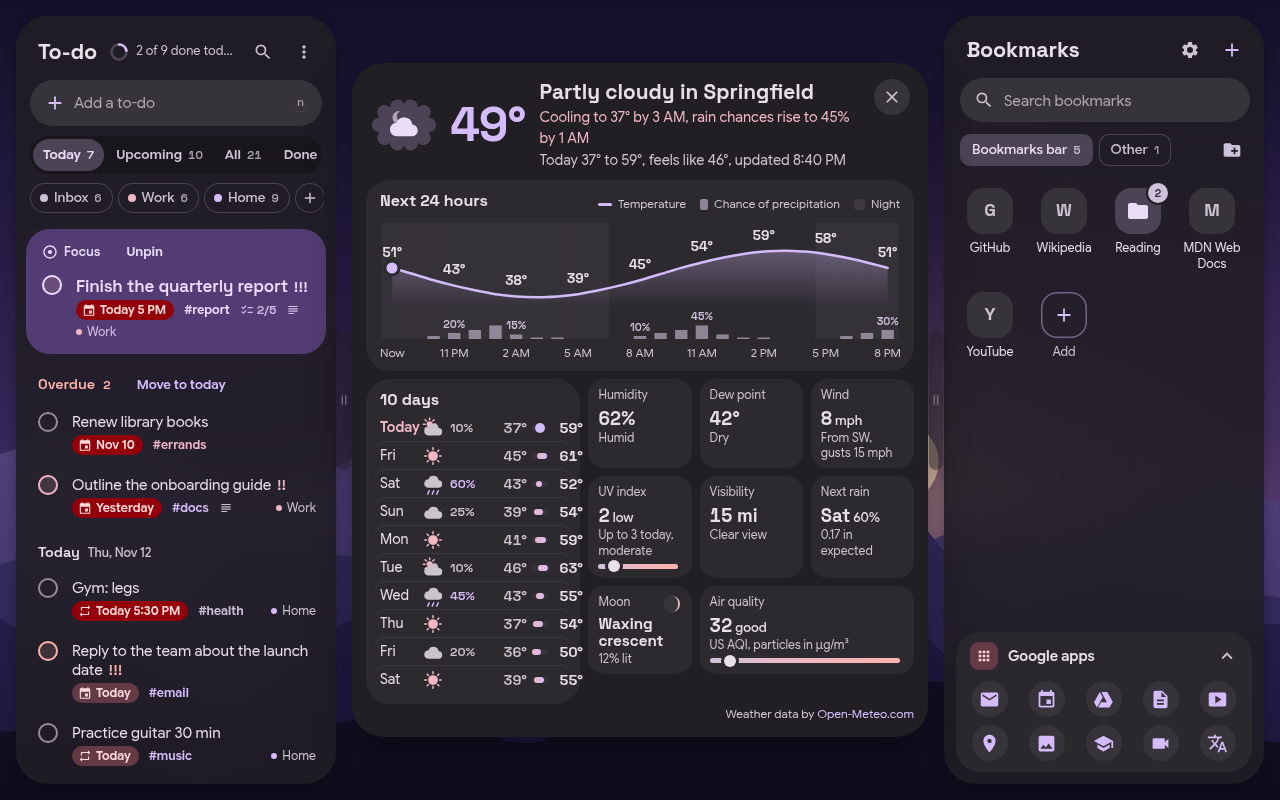
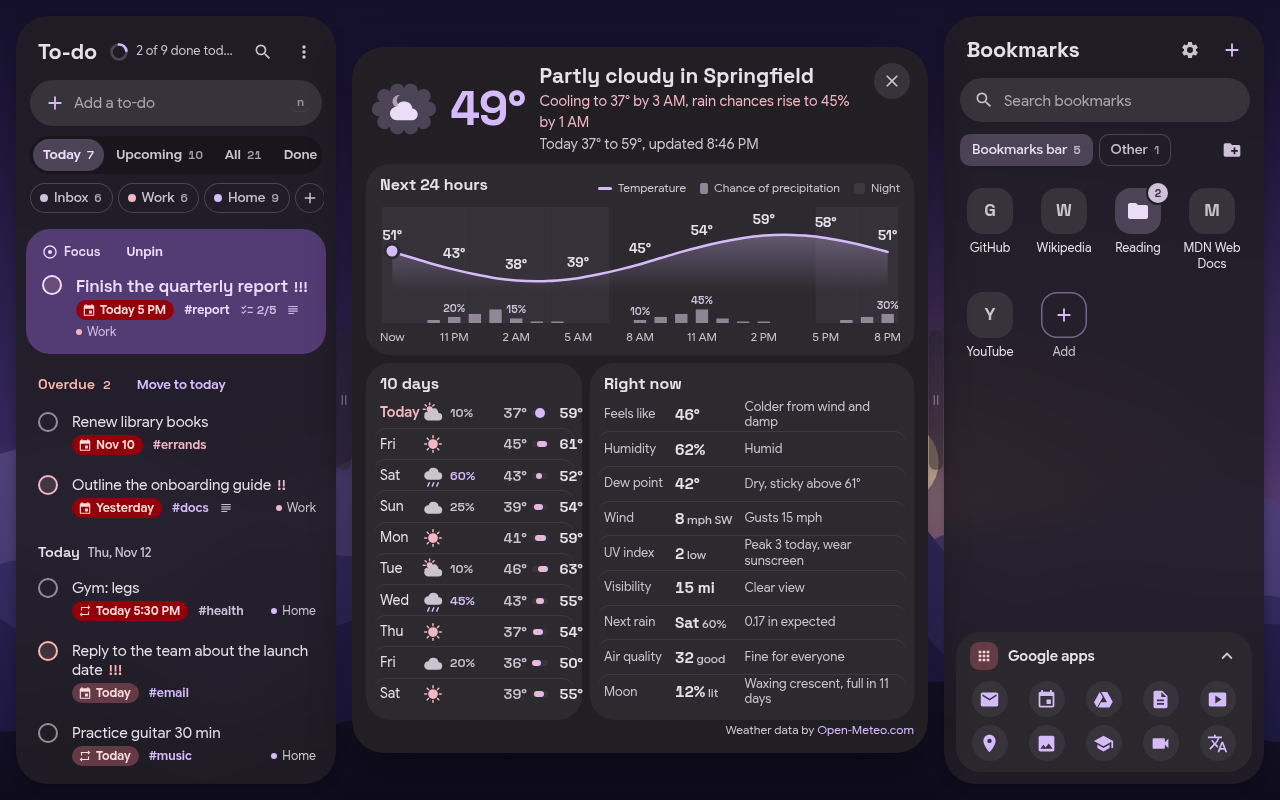
Weather details: readings as one compact list
The tile grid (compass, meters, sun arc, particle box) is replaced by a "Right now" list beside the 10 days:
name, value and a short note per row, with the full explanation as the row's tooltip. The moon shows how much
is lit, the phase goes in its note. Compact layouts let a note wrap to two lines.

diff --git a/extension/scripts/weather-card.js b/extension/scripts/weather-card.js
@@ -619,77 +619,58 @@
     }
 
     // Tile titles are words only (owner 2026-11-12: no extra symbols on the tiles).
-    // `why` is a plain-words line on what the reading means (owner 2026-11-12: "I kind of want explanations"). It shows
-    // under the reading in the wide layout and as the tile's tooltip everywhere.
-    const tile = (cls, label, value, sub, extra = "", why = "") => `
-        <div class="dlw-tile ${cls}"${why ? ` title="${esc(why)}"` : ""}><div class="dlw-tl">${label}</div>
-            <div class="dlw-tv">${value}</div>${sub ? `<div class="dlw-ts">${sub}</div>` : ""}${extra}${why ? `<p class="dlw-tx">${esc(why)}</p>` : ""}</div>`;
+    // Right now, as one compact list (owner 2026-11-12: "tighten it down to like a list with values"): each row is the
+    // reading's name, its value and a short note in plain words; the full explanation is the row's tooltip.
     const dewWord = (c) => { const f = c * 9 / 5 + 32; return f < 50 ? "Dry" : f < 60 ? "Comfortable" : f < 65 ? "Sticky" : "Muggy"; };
-    const meter = (frac, label) => `<div class="dlw-meter" aria-hidden="true" title="${esc(label)}"><b style="left:${clamp(frac, 0, 1) * 100}%"></b></div>`;
+    const row = (cls, label, value, note, why) => `<li class="dlw-row ${cls}" title="${esc(why)}">` +
+        `<span class="dlw-rl">${label}</span><span class="dlw-rv">${value}</span><span class="dlw-rn">${note}</span></li>`;
 
-    function tiles(w) {
+    function nowRows(w) {
         const t = todayAt(w), today = w.days[t] || {}, tomorrow = w.days[t + 1];
         const feelsGap = tval(w.feels) - tval(w.temp);
         const vis = w.visibility;
         const m = moon(Date.now());
         const out = [];
-        // Feels like only when it differs (the band shows it then too); cloud cover is gone (the condition says it).
-        // In the narrow layout the header line says feels like instead (dlw-t-feels is hidden there).
-        // Wide grid, three columns, no holes: [feels, humidity, dew] [wind, UV, visibility] [wind, rain, moon] [air].
-        // A missing feels-like widens the dew point, a missing visibility widens the moon.
-        if (Math.abs(feelsGap) >= 1.5) out.push(tile("dlw-t-feels", "Feels like", deg(w.feels),
-            feelsGap < 0 ? `Cooler than the ${deg(w.temp)} air` : `Warmer than the ${deg(w.temp)} air`, "",
-            feelsGap < 0 ? "Wind and damp air pull heat from your skin."
-                : "Humid, still air keeps your body from cooling off."));
-        out.push(tile("dlw-t-humid", "Humidity", `${Math.round(w.humidity)}%`,
-            w.humidity < 30 ? "Dry air" : w.humidity <= 60 ? "Comfortable" : w.humidity <= 80 ? "Humid" : "Very humid", "",
+        if (Math.abs(feelsGap) >= 1.5) out.push(row("dlw-t-feels", "Feels like", deg(w.feels),
+            feelsGap < 0 ? "Colder from wind and damp" : "Warmer from humid, still air",
+            "How the air feels on your skin, counting wind and humidity."));
+        out.push(row("dlw-t-humid", "Humidity", `${Math.round(w.humidity)}%`,
+            w.humidity < 30 ? "Dry air" : w.humidity <= 60 ? "Comfortable" : w.humidity <= 80 ? "Humid" : "Very humid",
             "Water in the air, out of the most it can hold at this temperature."));
-        const noFeels = Math.abs(feelsGap) < 1.5;
-        out.push(tile("dlw-t-dew" + (noFeels ? " dlw-w2" : ""), "Dew point", deg(w.dew), dewWord(w.dew), "",
-            `Air cooled to ${deg(w.dew)} would form dew. Below ${deg(10)} feels dry, above ${deg(16)} sticky.`));
-        // Wind with a compass (the arrow points where the wind goes).
-        const ticks = [...Array(36)].map((_, i) => `<line x1="50" y1="${i % 9 ? 7 : 5}" x2="50" y2="${i % 9 ? 10 : 12}" transform="rotate(${i * 10} 50 50)"/>`).join("");
-        out.push(tile("dlw-wind dlw-t-wind", "Wind", `${speedNum(w.wind)}<small> ${speedUnit()}</small>`,
-            `From <span class="dlw-wide">the ${COMPASS[point(w.windDir)]}</span><span class="dlw-narrow">${COMPASS_SHORT[point(w.windDir)]}</span>, gusts ${speed(w.gusts)}`,
-            `<div class="dlw-compass" aria-hidden="true"><svg viewBox="0 0 100 100"><circle cx="50" cy="50" r="44" class="dlw-ring"/>
-                <g class="dlw-ticks">${ticks}</g>
-                <text x="50" y="23">N</text><text x="80" y="54">E</text><text x="50" y="85">S</text><text x="20" y="54">W</text></svg>
-                <span class="dlw-arrow" style="--dir:${(w.windDir + 180) % 360}deg">${I.arrow}</span></div>`,
-            "The arrow points where the wind blows. Gusts are short, stronger bursts."));
-        out.push(tile("dlw-t-uv", "UV index", `${Math.round(w.uv)}<small> ${uvWord(w.uv).toLowerCase()}</small>`,
-            today.uvMax != null ? `Up to ${Math.round(today.uvMax)} today, ${uvWord(today.uvMax).toLowerCase()}` : "",
-            meter(w.uv / 11, "UV scale 0 to 11"), "Strength of the sun's burning rays. At 3 or more, wear sunscreen."));
-        if (vis != null) out.push(tile("dlw-t-vis", "Visibility", distance(vis),
-            vis >= 10000 ? "Clear view" : vis >= 5000 ? "Light haze" : vis >= 1000 ? "Hazy" : "Fog", "",
+        out.push(row("dlw-t-dew", "Dew point", deg(w.dew), `${dewWord(w.dew)}, sticky above ${deg(16)}`,
+            `Dew forms if the air cools to ${deg(w.dew)}. The higher it is, the muggier it feels: below ${deg(10)} feels dry, above ${deg(16)} sticky.`));
+        out.push(row("dlw-t-wind", "Wind", speedNum(w.wind) < 2 ? "Calm"
+            : `${speedNum(w.wind)}<small> ${speedUnit()} ${COMPASS_SHORT[point(w.windDir)]}</small>`, `Gusts ${speed(w.gusts)}`,
+            `From the ${COMPASS[point(w.windDir)]}. Gusts are the short, stronger bursts.`));
+        out.push(row("dlw-t-uv", "UV index", `${Math.round(w.uv)}<small> ${uvWord(w.uv).toLowerCase()}</small>`,
+            today.uvMax != null ? `Peak ${Math.round(today.uvMax)} today${today.uvMax >= 3 ? ", wear sunscreen" : ""}` : "",
+            "Strength of the sun's burning rays. At 3 or more, wear sunscreen."));
+        if (vis != null) out.push(row("dlw-t-vis", "Visibility", distance(vis),
+            vis >= 10000 ? "Clear view" : vis >= 5000 ? "Light haze" : vis >= 1000 ? "Hazy" : "Fog",
             `How far you can see clearly. Under ${distance(1000)} is fog.`));
-        // Rain: today's amount when today is wet, else the next wet day.
+        // Rain: today when today is wet, else the next wet day.
         if ((today.rain || 0) >= 50) {
-            out.push(tile("dlw-t-rain", "Rain today", amount(today.mm || 0),
-                `${Math.round(today.rain)}% chance${tomorrow ? `, ${Math.round(tomorrow.rain)}% tomorrow` : ""}`, "",
+            out.push(row("dlw-t-rain", "Rain today", `${Math.round(today.rain)}%`,
+                `${amount(today.mm || 0)} expected${tomorrow ? `, ${Math.round(tomorrow.rain)}% tomorrow` : ""}`,
                 "Chance of rain today, and how much should fall."));
         } else {
             const j = w.days.findIndex((d, i) => i > t && d.rain >= 50);
             const d = w.days[j];
-            out.push(tile("dlw-t-rain", "Next rain", d ? `${dayName(d.date, 2)}<small> ${d.rain}%</small>` : "None",
-                d ? `${j - t === 1 ? "Tomorrow, " : ""}${amount(d.mm)} expected` : `Dry for ${w.days.length - t} days`, "",
-                "The next day with a 50% or higher chance of rain."));
+            out.push(row("dlw-t-rain", "Next rain", d ? `${dayName(d.date, 2)}<small> ${d.rain}%</small>` : "None",
+                d ? `${j - t === 1 ? "Tomorrow, " : ""}${amount(d.mm)} expected` : `Dry for ${w.days.length - t} days`,
+                "The next day with a 50% or higher chance of rain, and how much should fall."));
         }
-        const toFull = Math.round(((0.5 - m.age + 1) % 1) * 29.53);
-        out.push(tile("dlw-moon" + (vis == null ? " dlw-w2" : ""), "Moon", m.name, `${Math.round(m.lit * 100)}% lit`,
-            `<svg class="dlw-moonpic" viewBox="0 0 40 40" aria-hidden="true"><circle cx="20" cy="20" r="16" class="dlw-moon-dark"/><path d="${moonPath(m.age)}" class="dlw-moon-lit"/></svg>`,
-            m.name === "Full moon" ? "The whole face is lit tonight." : `Full moon in ${toFull} day${toFull === 1 ? "" : "s"}.`));
         if (w.air) {
             const a = w.air, n = (v) => v == null ? "?" : Math.round(v);
-            out.push(tile("dlw-aqi dlw-t-air" + (a.aqi > 100 ? " dlw-bad" : ""), "Air quality", `${Math.round(a.aqi)}<small> ${aqiWord(a.aqi).toLowerCase()}</small>`,
-                "US AQI, particles in µg/m³",
-                meter(a.aqi / 300, "AQI scale 0 to 300") + `<dl class="dlw-pm"><div><dt>PM2.5</dt><dd>${n(a.pm25)}</dd></div>
-                    <div><dt>PM10</dt><dd>${n(a.pm10)}</dd></div><div><dt>Ozone</dt><dd>${n(a.ozone)}</dd></div></dl>`,
-                (a.aqi <= 50 ? "Clean air, fine for everyone outside."
-                    : a.aqi <= 100 ? "Fine for most people. Very sensitive people may want to take it easy outside."
-                    : a.aqi <= 150 ? "People with asthma, kids and older adults should cut long outdoor exercise."
-                    : "Unhealthy: everyone should cut long or hard outdoor exercise.")
-                + " PM2.5 and PM10 are fine dust, ozone is smog."));
+            out.push(row("dlw-t-air" + (a.aqi > 100 ? " dlw-bad" : ""), "Air quality",
+                `${Math.round(a.aqi)}<small> ${aqiWord(a.aqi).toLowerCase()}</small>`,
+                a.aqi <= 50 ? "Fine for everyone" : a.aqi <= 100 ? "Fine for most people"
+                    : a.aqi <= 150 ? "Sensitive people take it easy" : "Cut long outdoor exercise",
+                `US air quality index, 0 to 500. PM2.5 ${n(a.pm25)}, PM10 ${n(a.pm10)} (fine dust, µg/m³), ozone ${n(a.ozone)} (smog).`));
         }
+        const toFull = Math.round(((0.5 - m.age + 1) % 1) * 29.53);
+        out.push(row("dlw-moon", "Moon", `${Math.round(m.lit * 100)}%<small> lit</small>`, m.name === "Full moon" ? "Full moon tonight"
+            : `${m.name}, full in ${toFull} day${toFull === 1 ? "" : "s"}`, "How much of the moon is lit tonight, and its phase."));
         return out.join("");
     }
 
@@ -700,7 +681,6 @@
         const keep = body ? body.scrollTop : 0;
         const text = window.weatherText(w.code, w.isDay);
         const stale = ageMin(w) > STALE;
-        const feelsHead = Math.abs(tval(w.feels) - tval(w.temp)) >= 1.5;
         detail.innerHTML = `
             <header class="dlw-d-head">
                 ${badge(w, "dlw-small")}
@@ -708,7 +688,7 @@
                 <div class="dlw-words">
                     <h2 class="dlw-cond" id="dlw-d-title">${esc(text)} in ${esc(w.place)}</h2>
                     <div class="dlw-sub dlw-sum">${esc(daySentence(w))}</div>
-                    <div class="dlw-sub">Today ${deg(todayRange(w).min)} to ${deg(todayRange(w).max)}, ${feelsHead ? `<span class="dlw-narrow">feels like ${deg(w.feels)}, </span>` : ""}<span class="${stale ? "dlw-old" : ""}">updated ${stale ? ago(w) : updatedAt(w)}</span></div>
+                    <div class="dlw-sub">Today ${deg(todayRange(w).min)} to ${deg(todayRange(w).max)}, <span class="${stale ? "dlw-old" : ""}">updated ${stale ? ago(w) : updatedAt(w)}</span></div>
                 </div>
                 <button type="button" class="icon-btn dlw-close" title="Close (Esc)">${I.close}<span class="dlw-sr">Close weather details</span></button>
             </header>
@@ -722,7 +702,10 @@
                     <div class="dlw-d-h"><h3 id="dlw-h-10">10 days</h3></div>
                     <ol class="dlw-ten">${tenDays(w)}</ol>
                 </section>
-                <section class="dlw-d-sec dlw-d-grid" aria-label="Current conditions">${tiles(w)}</section>
+                <section class="dlw-d-sec dlw-d-grid" aria-labelledby="dlw-h-now">
+                    <div class="dlw-d-h"><h3 id="dlw-h-now">Right now</h3></div>
+                    <ul class="dlw-rows">${nowRows(w)}</ul>
+                </section>
                 <p class="dlw-credit">Weather data by <a href="https://open-meteo.com/" target="_blank" rel="noopener">Open-Meteo.com</a></p>
             </div>`;
         const nb = detail.querySelector(".dlw-d-body");

diff --git a/extension/styles/weather.css b/extension/styles/weather.css
@@ -369,7 +369,7 @@
 .dlw-old { color: var(--dl-error, #ffb4ab); }
 .dlw-close { align-self: flex-start; flex: none; background: var(--dl-surface_container_highest, #3d3230); }
 .dlw-d-body { flex: 1; min-height: 0; overflow: auto; scrollbar-width: thin; scrollbar-color: var(--line) transparent;
-    padding: 2px 20px 20px; display: grid; grid-template-columns: minmax(0, 4fr) minmax(0, 8fr);
+    padding: 2px 20px 20px; display: grid; grid-template-columns: minmax(0, 5fr) minmax(0, 7fr);
     grid-template-areas: "chart chart" "days grid"; gap: 14px; outline: 0;
     /* Tight: every row is as tall as its content, and the 10 days stretch to the tiles' height beside them. */
     align-items: stretch; }
@@ -434,79 +434,39 @@
 .dlw-ten .dlw-wk i { border-radius: 3px; }
 .dlw-ten .dlw-wk b { width: 10px; height: 10px; box-shadow: 0 0 0 2px var(--dl-surface_container_high, #322825); }
 
-/* Metrics grid: three columns; wind is tall (compass), sun and air quality are wide. */
-.dlw-d-grid { grid-area: grid; display: grid; grid-template-columns: repeat(3, minmax(0, 1fr)); grid-auto-flow: row dense;
-    gap: 10px; padding: 0; background: none; }
-/* No holes in the three columns: a tile whose neighbor is missing (feels like, visibility) takes two cells, air quality
-   takes the whole last row. */
-.dlw-w2 { grid-column: span 2; }
-.dlw-tile { position: relative; display: flex; flex-direction: column; gap: 2px; min-width: 0; min-height: 94px;
-    padding: 12px 14px; border-radius: 20px; background: var(--dl-surface_container_high, #322825); }
-/* The tile picked in the band. */
-.dlw-tile.dlw-on { box-shadow: inset 0 0 0 2px var(--dl-primary, #ffb4a4); }
-.dlw-tl { display: flex; align-items: center; gap: 6px; font-size: 0.8rem; color: var(--dl-on_surface_variant, #d8c2bd); }
-/* Title, value and note sit together at the top; the explanation goes to the bottom of a tile taller than its words.
-   The wind tile centers its compass in the room between. */
-.dlw-tile > .dlw-tl { padding-bottom: 4px; }
-.dlw-tv { font: 700 1.6rem/1.2 var(--f-display); font-variant-numeric: tabular-nums; white-space: nowrap;
-    overflow: hidden; text-overflow: ellipsis; }
-.dlw-ts { font-size: 0.8rem; line-height: 1.3; color: var(--dl-on_surface_variant, #d8c2bd); }
-.dlw-meter { position: relative; height: 6px; margin: 8px 6px 2px 0; border-radius: 3px;
-    background: linear-gradient(90deg, var(--dl-secondary, #e7bdb3), var(--dl-tertiary, #dcc48c), var(--dl-error, #ffb4ab)); }
-.dlw-meter b { position: absolute; top: 50%; width: 12px; height: 12px; border-radius: 50%; transform: translate(-50%, -50%);
-    background: var(--dl-on_surface, #f1dfdb); box-shadow: 0 0 0 3px var(--dl-surface_container_high, #322825); }
-.dlw-wind { grid-row: span 2; }
-.dlw-compass { position: relative; width: 116px; height: 116px; margin: auto; }
-.dlw-compass svg { width: 100%; height: 100%; display: block; }
-.dlw-ring { fill: var(--dl-surface_container_highest, #3d3230); stroke: var(--dl-outline_variant, #534340); stroke-width: 1; }
-.dlw-ticks line { stroke: var(--dl-outline, #a08c88); stroke-width: 1.2; stroke-linecap: round; }
-.dlw-compass text { fill: var(--dl-on_surface_variant, #d8c2bd); font: 700 11px var(--f-display); text-anchor: middle; }
-.dlw-compass .dlw-arrow { position: absolute; inset: 0; }
-.dlw-compass .dlw-arrow svg { width: 40px; height: 40px; fill: var(--dl-primary, #ffb4a4); }
-.dlw-aqi { grid-column: 1 / -1; }
-.dlw-aqi .dlw-ts { padding-right: 140px; white-space: normal; }
-.dlw-narrow { display: none; }
-/* What the reading means, in plain words, under it (wide layout; a tooltip in the narrow one). */
-.dlw-tx { margin: auto 0 0; padding-top: 6px; font-size: 0.78rem; line-height: 1.35; text-wrap: pretty;
-    color: color-mix(in srgb, var(--dl-on_surface_variant, #d8c2bd) 78%, transparent); }
-.dlw-aqi .dlw-tx { padding-right: 140px; }
-.dlw-moonpic { position: absolute; right: 14px; top: 14px; width: 40px; height: 40px; }
-.dlw-moon-dark { fill: var(--dl-surface_container_highest, #3d3230); stroke: var(--dl-outline_variant, #534340); }
-.dlw-moon-lit { fill: var(--dl-tertiary, #dcc48c); }
-.dlw-moon .dlw-tv { font-size: 1.15rem; padding-right: 46px; white-space: normal; }
-.dlw-aqi .dlw-meter { margin-right: 140px; }
-.dlw-bad .dlw-tv { color: var(--dl-error, #ffb4ab); }
-.dlw-pm { position: absolute; right: 14px; top: 12px; margin: 0; display: grid; grid-template-columns: auto auto; gap: 2px 10px;
-    font-size: 0.78rem; }
-.dlw-pm div { display: contents; }
-.dlw-pm dt { color: var(--dl-on_surface_variant, #d8c2bd); }
-.dlw-pm dd { margin: 0; font: 600 0.85rem var(--f-display); text-align: right; font-variant-numeric: tabular-nums; }
+/* Right now: one list of readings beside the 10 days (owner 2026-11-12: "a list with values"). Name, value, short note
+   in three aligned columns; the rows share the 10 days' height so the two cards end together. */
+.dlw-d-grid { grid-area: grid; display: flex; flex-direction: column; }
+.dlw-rows { flex: 1; list-style: none; margin: 8px 0 0; padding: 0; display: grid; align-content: stretch;
+    grid-template-columns: max-content max-content minmax(0, 1fr); grid-auto-rows: 1fr; column-gap: 18px; }
+.dlw-row { grid-column: 1 / -1; display: grid; grid-template-columns: subgrid; align-items: center;
+    padding: 6px; margin: 0 -6px; border-radius: 12px; min-width: 0; }
+.dlw-row + .dlw-row { box-shadow: 0 -1px 0 color-mix(in srgb, var(--line) 60%, transparent); }
+.dlw-row.dlw-on, .dlw-row.dlw-on + .dlw-row { box-shadow: none; }
+.dlw-row.dlw-on { background: var(--dl-tertiary_container, #554519); color: var(--dl-on_tertiary_container, #f9e0a6); }
+.dlw-rl { font-size: 0.88rem; color: var(--dl-on_surface_variant, #d8c2bd); white-space: nowrap; }
+.dlw-rv { font: 700 1.05rem/1.2 var(--f-display); font-variant-numeric: tabular-nums; white-space: nowrap; }
+.dlw-rv small { font: 500 0.78em var(--f-body); color: var(--dl-on_surface_variant, #d8c2bd); }
+.dlw-rn { min-width: 0; font-size: 0.85rem; color: var(--dl-on_surface_variant, #d8c2bd); white-space: nowrap; overflow: hidden;
+    text-overflow: ellipsis; }
+.dlw-row.dlw-on .dlw-rl, .dlw-row.dlw-on .dlw-rn, .dlw-row.dlw-on .dlw-rv small { color: inherit; }
+.dlw-bad .dlw-rv { color: var(--dl-error, #ffb4ab); }
 
-/* Short screens (1366x768): a shorter chart, so the tiles start sooner. */
+/* Short screens (1366x768): a shorter chart. */
 @container lemon (max-height: 769px) {
     .dlw-chart { height: 112px; margin-bottom: 22px; }
     .dlw-d-head { padding: 14px 16px 10px 18px; }
 }
-/* Mid-height pages (1920x1080 and the like): a shorter chart and compass, so the tiles with their explanations fit
-   without scrolling. */
+/* Mid-height pages (1920x1080 and the like): a slightly shorter chart and header. */
 @container lemon (max-height: 1150px) {
-    .dlw-chart { height: 110px; margin-bottom: 22px; }
+    .dlw-chart { height: 120px; margin-bottom: 22px; }
     .dlw-d-head { padding: 16px 18px 10px 20px; }
     .dlw-d-body { gap: 10px; }
-    .dlw-compass { width: 92px; height: 92px; }
-    .dlw-compass .dlw-arrow svg { width: 32px; height: 32px; }
-    .dlw-tile { padding: 10px 14px; }
-    .dlw-tv { font-size: 1.55rem; }
 }
-/* Narrow detail (the center column of a 1366 wide screen or a 1100 wide window, up to 940 px): five columns. The chart across the top, the
-   10 days in the first two, the tiles (compact: no compass, sun arc or particle list, their words stay) three to a
-   row beside the days. Rich but fits 1366x768 and 1366x640 with no scroll. */
+/* Narrow detail (the center column of a 1366 wide screen or a 1100 wide window, up to 940 px): the same two cards,
+   smaller type. Fits 1366x768 and 1366x640 with no scroll. */
 @container dlwd (max-width: 940px) {
-    .dlw-d-body { grid-template-columns: repeat(5, minmax(0, 1fr)); grid-template-areas: none; grid-auto-flow: row dense;
-        grid-auto-rows: max-content; gap: 8px; padding: 0 14px 14px; align-items: stretch; }
-    .dlw-d-chartsec { grid-column: 1 / -1; grid-row: 1; }
-    .dlw-d-days { grid-column: 1 / 3; grid-row: 2 / span 4; }
-    .dlw-d-grid { display: contents; }
+    .dlw-d-body { grid-template-columns: minmax(0, 2fr) minmax(0, 3fr); gap: 8px; padding: 0 14px 14px; }
     .dlw-d-head { gap: 14px; }
     .dlw-d-head .dlw-temp { font-size: 48px; }
     .dlw-detail .dlw-shape.dlw-small { width: 64px; height: 64px; flex-basis: 64px; }
@@ -514,31 +474,16 @@
     .dlw-legend { font-size: 0.74rem; }
     .dlw-chart { height: 150px; margin: 10px 2px 22px; }
     .dlw-chart:has(.dlw-on) { margin-top: 26px; }
-    .dlw-ten { margin-top: 4px; }
+    .dlw-ten, .dlw-rows { margin-top: 4px; }
     .dlw-ten li { grid-template-columns: 36px 24px 42px 30px minmax(16px, 1fr) 30px; gap: 5px; padding: 2px 6px; }
     .dlw-ten .wi { width: 24px; height: 24px; }
     .dlw-dn { font-size: 0.88rem; }
     .dlw-lo, .dlw-hi { font-size: 0.9rem; }
-    .dlw-tile { min-height: 0; padding: 7px 10px 8px; border-radius: 16px; gap: 1px; }
-    .dlw-tl { font-size: 0.76rem; }
-    .dlw-tv { font-size: 1.15rem; }
-    .dlw-ts { font-size: 0.76rem; line-height: 1.25; display: -webkit-box; -webkit-box-orient: vertical; -webkit-line-clamp: 2;
-        overflow: hidden; }
-    .dlw-wind { grid-row: auto; }
-    .dlw-w2 { grid-column: auto; }
-    .dlw-aqi { grid-column: span 2; }   /* humidity, dew, wind / UV, visibility, rain / moon, air: three full rows */
-    .dlw-compass, .dlw-pm, .dlw-t-feels, .dlw-wide, .dlw-tx { display: none; }
-    .dlw-narrow { display: inline; }
-    .dlw-aqi .dlw-ts { padding-right: 0; }
-    .dlw-meter { margin: 5px 4px 1px 0; height: 5px; }
-    .dlw-aqi .dlw-meter { margin-right: 4px; }
-    .dlw-moonpic { width: 26px; height: 26px; top: 8px; right: 10px; }
-    .dlw-moon .dlw-tv { font-size: 1rem; padding-right: 28px; white-space: normal; line-height: 1.15; }
-    /* Narrow tiles: values and notes wrap instead of cutting ("30.01 inHg", "Waxing crescent", the air note). */
-    .dlw-tv { white-space: normal; text-overflow: clip; line-height: 1.15; }
-    .dlw-moon .dlw-tv { padding-right: 0; font-size: 0.95rem; }
-    .dlw-moonpic { width: 20px; height: 20px; top: 8px; }
-    .dlw-aqi .dlw-ts { -webkit-line-clamp: 3; }
+    .dlw-rows { column-gap: 12px; }
+    .dlw-row { padding: 2px 6px; }
+    .dlw-rl, .dlw-rn { font-size: 0.8rem; }
+    .dlw-rn { white-space: normal; line-height: 1.2; display: -webkit-box; -webkit-box-orient: vertical; -webkit-line-clamp: 2; }
+    .dlw-rv { font-size: 0.95rem; }
 }
 /* 1366x768: the compact layout's chart a little shorter, so the 10 days and the tiles fit without scrolling. */
 @container lemon (max-height: 769px) {
@@ -552,10 +497,9 @@
     .dlw-detail .dlw-shape.dlw-small { width: 54px; height: 54px; flex-basis: 54px; }
     .dlw-d-head .dlw-cond { font-size: 1.15rem; -webkit-line-clamp: 1; }
 }
-/* Very narrow (small windows): the days across, the tiles two to a row under them. */
+/* Very narrow (small windows): the days, then the readings, each across. */
 @container dlwd (max-width: 560px) {
-    .dlw-d-body { grid-template-columns: repeat(2, minmax(0, 1fr)); }
-    .dlw-d-days { grid-column: 1 / -1; grid-row: auto; }
+    .dlw-d-body { grid-template-columns: minmax(0, 1fr); grid-template-areas: "chart" "days" "grid"; }
 }
 
 /* Open-Meteo attribution (CC BY 4.0), the last line of the detail view. */
